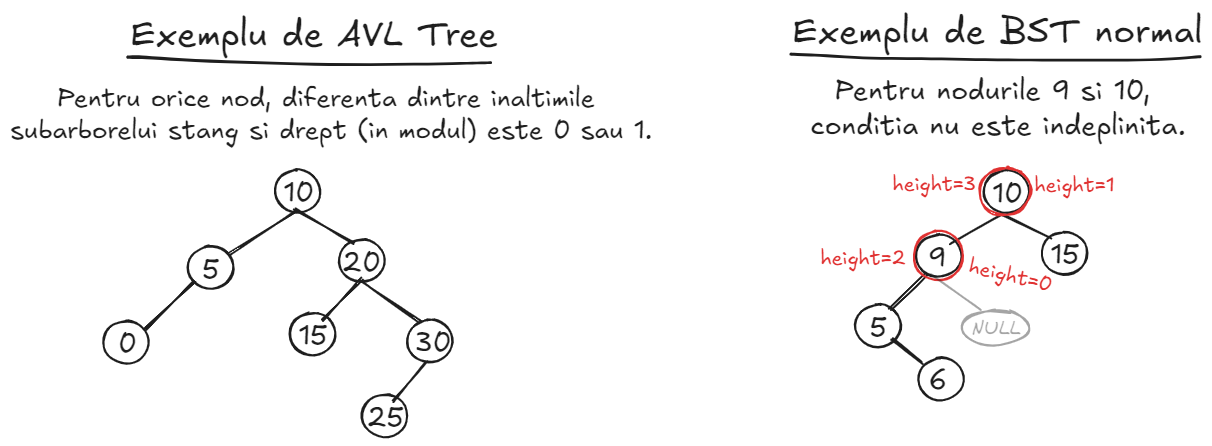
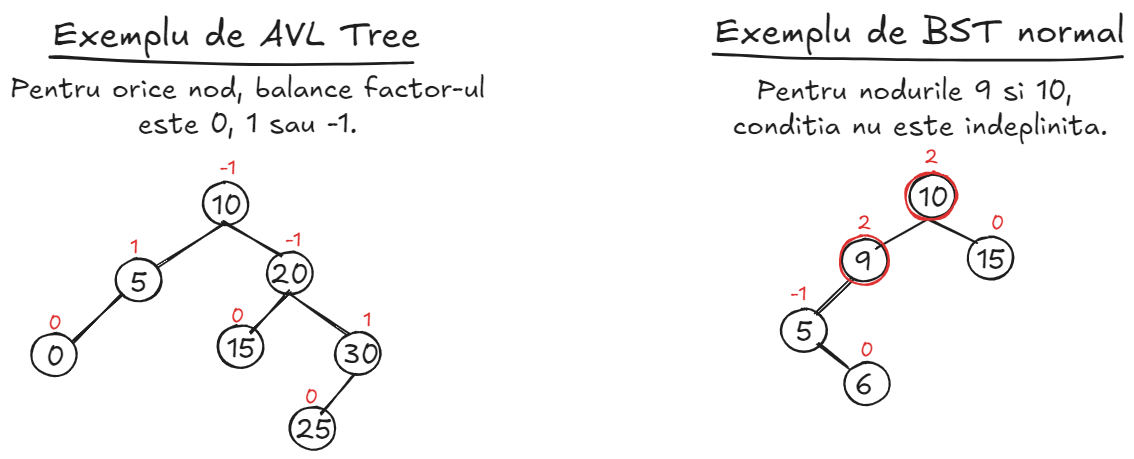
update AVL trees

diff --git a/TUTORIAT 4/README.md b/TUTORIAT 4/README.md
@@ -9,10 +9,17 @@
 
 ## 1 - AVL Trees 
 
-### <ins>1.1 - Ce este un AVL Tree?</ins>
-- Un <b>AVL Tree</b> este un <b>Binary Search Tree</b> cu o proprietate in plus: pentru orice nod, diferenta dintre inaltimea subarborelui stang si inaltimea subarborelui drept este de maxim un nod. Aceasta proprietate asigura faptul ca inaltimea arborelui ramane mereu aproximativ <b>logn</b> => operatiile de <b>insert/search/delete</b> o sa aiba complexitate <b>O(logn)</b>.
-- Inserarea si stergerea de noduri pot afecta aceasta proprietate, deoarece se modifica inaltimea subarborelui; asadar, ne folosim de <b>rotatii</b> ca sa corectam diferentele de inaltime dintre subarbori.
-
+### <ins>1.1 - Introducere</ins>
+- Un <b>AVL Tree</b> este un <b>Binary Search Tree</b> cu o proprietate in plus: pentru orice nod, diferenta dintre inaltimea subarborelui stang si inaltimea subarborelui drept este de maxim un nod. Aceasta diferenta de inaltimi reprezinta **balance factor-ul** unui nod, care este folosit pentru a asigura faptul ca inaltimea arborelui va ramane mereu aproximativ <b>log(n)</b> => operatiile de <b>insert/search/delete</b> o sa aiba mereu complexitate <b>O(logn)</b>.
+- Inserarea si stergerea de noduri pot afecta aceasta proprietate, deoarece se modifica inaltimile subarborilor; asadar, ne folosim de <b>rotatii</b> ca sa corectam fiecare nod cu un **balance factor** stricat.
+- Orice nod intr-un **AVL Tree** are urmatoarele campuri/atribute:
+    - **<ins>key</ins>**: cheia nodului.
+    - **<ins>val</ins>**: valoarea nodului.
+    - **<ins>height</ins>**: inaltimea subarborelui, care are nodul respectiv ca si radacina. Acest camp este necesar pentru a calcula **balance factor-ul**.
+    - **<ins>left</ins>**: copilul stang.
+    - **<ins>right</ins>**: copilul drept.
+- Am atasat un exemplu de AVL Tree:
+    
 ![Image](images/avl-trees/example.png)
 
 ### <ins>1.2 - Rotatii</ins>
@@ -29,14 +36,26 @@
 - <b>Pasul 1</b>: inseram nodul ca la un BST normal (vezi <b>Tutoriat 3</b>).
 - <b>Pasul 2</b>: incepand de la nodul inserat anterior, mergem in sus spre radacina, cautand primul nod care este dezechilibrat, pe care il vom nota cu <b>A</b>. Odata ce l-am localizat pe <b>A</b>, obtinem fiul, pe care il notam cu <b>B</b>, care se afla in drum spre nodul inserat. Apoi, obtinem fiul lui <b>B</b>, pe care il notam cu <b>C</b>, care se afla in drum spre nodul inserat (important sa nu ne abatem de la drum).
 - <b>Pasul 3</b>: Odata ce am obtinut nodurile <b>A</b>, <b>B</b> si <b>C</b>, determinam cazul in care ne aflam si aplicam rotatiile necesare. Ne folosim de inaltimile subarborilor lui <b>A</b>:
-    - <b>left_subtree_height - right_subtree_height > 1</b>: ne aflam in <b>Left-Left</b> sau <b>Left-Right</b>. Ca sa ne dam seama, comparam valoarea nodului inserat cu valoarea lui <b>B</b>.
-    - <b>left_subtree_height - right_subtree_height < -1</b>: ne aflam in <b>Right-Right</b> sau <b>Right-Left</b>. Ca sa ne dam seama, comparam valoarea nodului inserat cu valoarea lui <b>B</b>.
+    - <b>balance_factor > 1</b>: ne aflam in <b>Left-Left</b> sau <b>Left-Right</b>. Ca sa ne dam seama, comparam valoarea nodului inserat cu valoarea lui <b>B</b>.
+    - <b>balance_factor < -1</b>: ne aflam in <b>Right-Right</b> sau <b>Right-Left</b>. Ca sa ne dam seama, comparam valoarea nodului inserat cu valoarea lui <b>B</b>.
 - <b>Pasul 4</b>: am identificat cazul; aplicam una sau doua rotatii (in functie de caz), iar arborele devine din nou echilibrat.
+- **Complexitate O(logn)**.
 
 ### <ins>1.5 - Delete</ins>
+- **Pasul 1**: localizam nodul (daca exista) folosind operatia de **search**. 
+- **Pasul 2**: in caz ca exista, aplicam operatia **delete** de la BST-uri normale (**Tutoriat 3**).
+- **Pasul 3**: incepand de la parintele nodului sters (si mergand in sus catre radacina), verificam **balance factor-ul** fiecarui nod; in caz ca exista un dezechilibru, vom aplica rotatiile necesare. Exista **4** cazuri pentru acest pas:
+    - **balance_factor(node) > 1**: ne aflam in **Left-Left** sau **Left-Right**. Ca sa ne dam seama:
+        - **balance_factor(node->left) >= 0**: **Left-Left**.
+        - **balance_factor(node->left) < 0**: **Left-Right**.
+    - **balance_factor(node) < 1**: ne aflam in **Right-Right** sau **Right-Left**. Ca sa ne dam seama:
+        - **balance_factor(node->right) < 0**: **Right-Right**.
+        - **balance_factor(node->right) >= 0**: **Right-Left**.
+- **Pasul 4**: repetam **pasul 3** pentru fiecare nod dezechilibrat, aplicand rotatiile necesare pentru a restabili echilibrul.
+- **Complexitate O(logn)**.
 
 ### <ins>1.6 - Alte operatii</ins>
-
+- Alte operatii ar mai fi **tree-walks** si **successor/predecessor**, dar acestea sunt identice cu cele de la **BST-uri**.
 ---
 
 ## 2 - Splay Trees 
@@ -107,7 +126,8 @@
     - <b><ins>left</ins></b>: un pointer catre nodul din stanga (sau catre finalul listei, daca ne aflam la inceput si e lista circulara).
     - <b><ins>right</ins></b>: un pointer catre nodul din dreapta (sau catre inceputul listei, daca ne aflam la final si e listsa circulara).
     - <b><ins>mark</ins></b>: o valoare booleana, implicit, <b>false</b>. Daca se sterge copilul unui nod, nodul respectiv devine <b>marked</b>, adica <b>mark=true</b>.
-    - <b><ins>degree</ins></b>: numarul de copii pentru un nod (implicit <b>0</b>). Un nod are maxim gradul <b>log(n)</b> (demonstratie naspa cu chestii fibonacci).
+    - <b><ins>degree</ins></b>: numarul de copii pentru un nod (implicit <b>0</b>).
+- <b>IMPORTANT</B>: un arbore de ordin/grad <b>d</b> (radacina are <b>degree=d</b>) are marimea de maxim <b>log(n)</b> noduri (demonstratie naspa cu numere fibonacci).
 - Am atasat un exemplu de structura pentru un Fibonacci Heap.
 
 ![Image](images/fibonacci-heap/structure.png)
